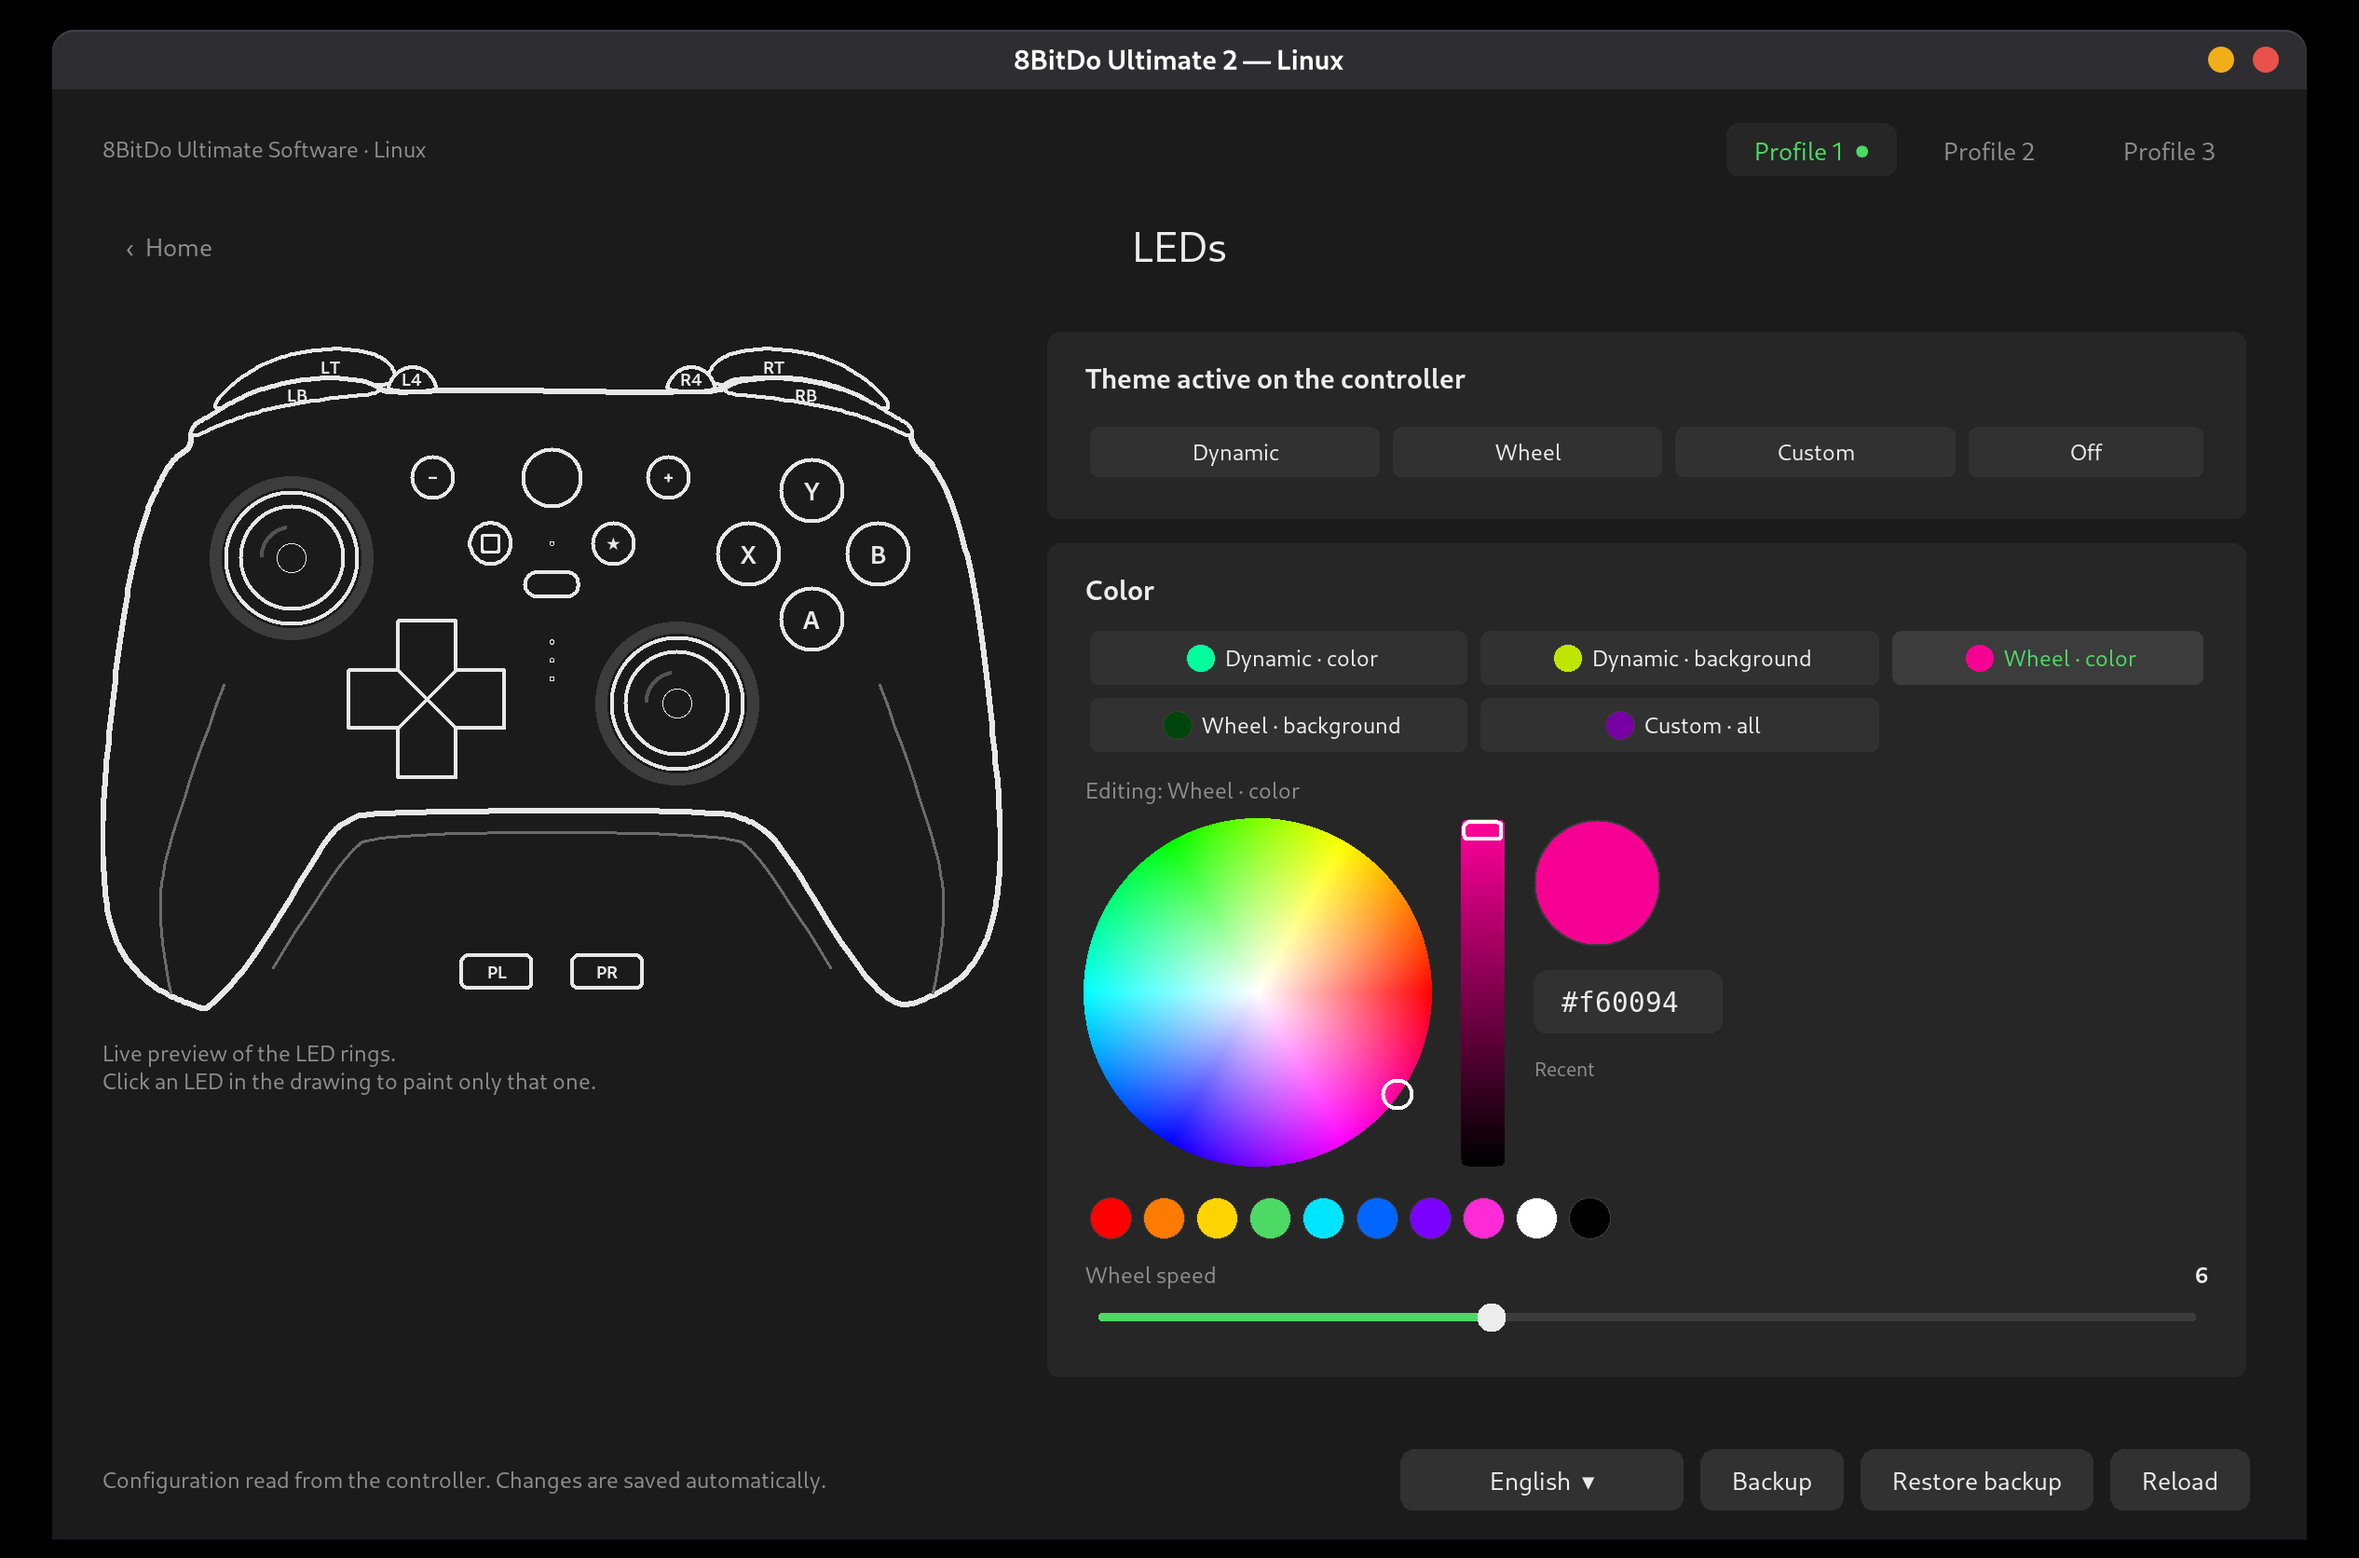
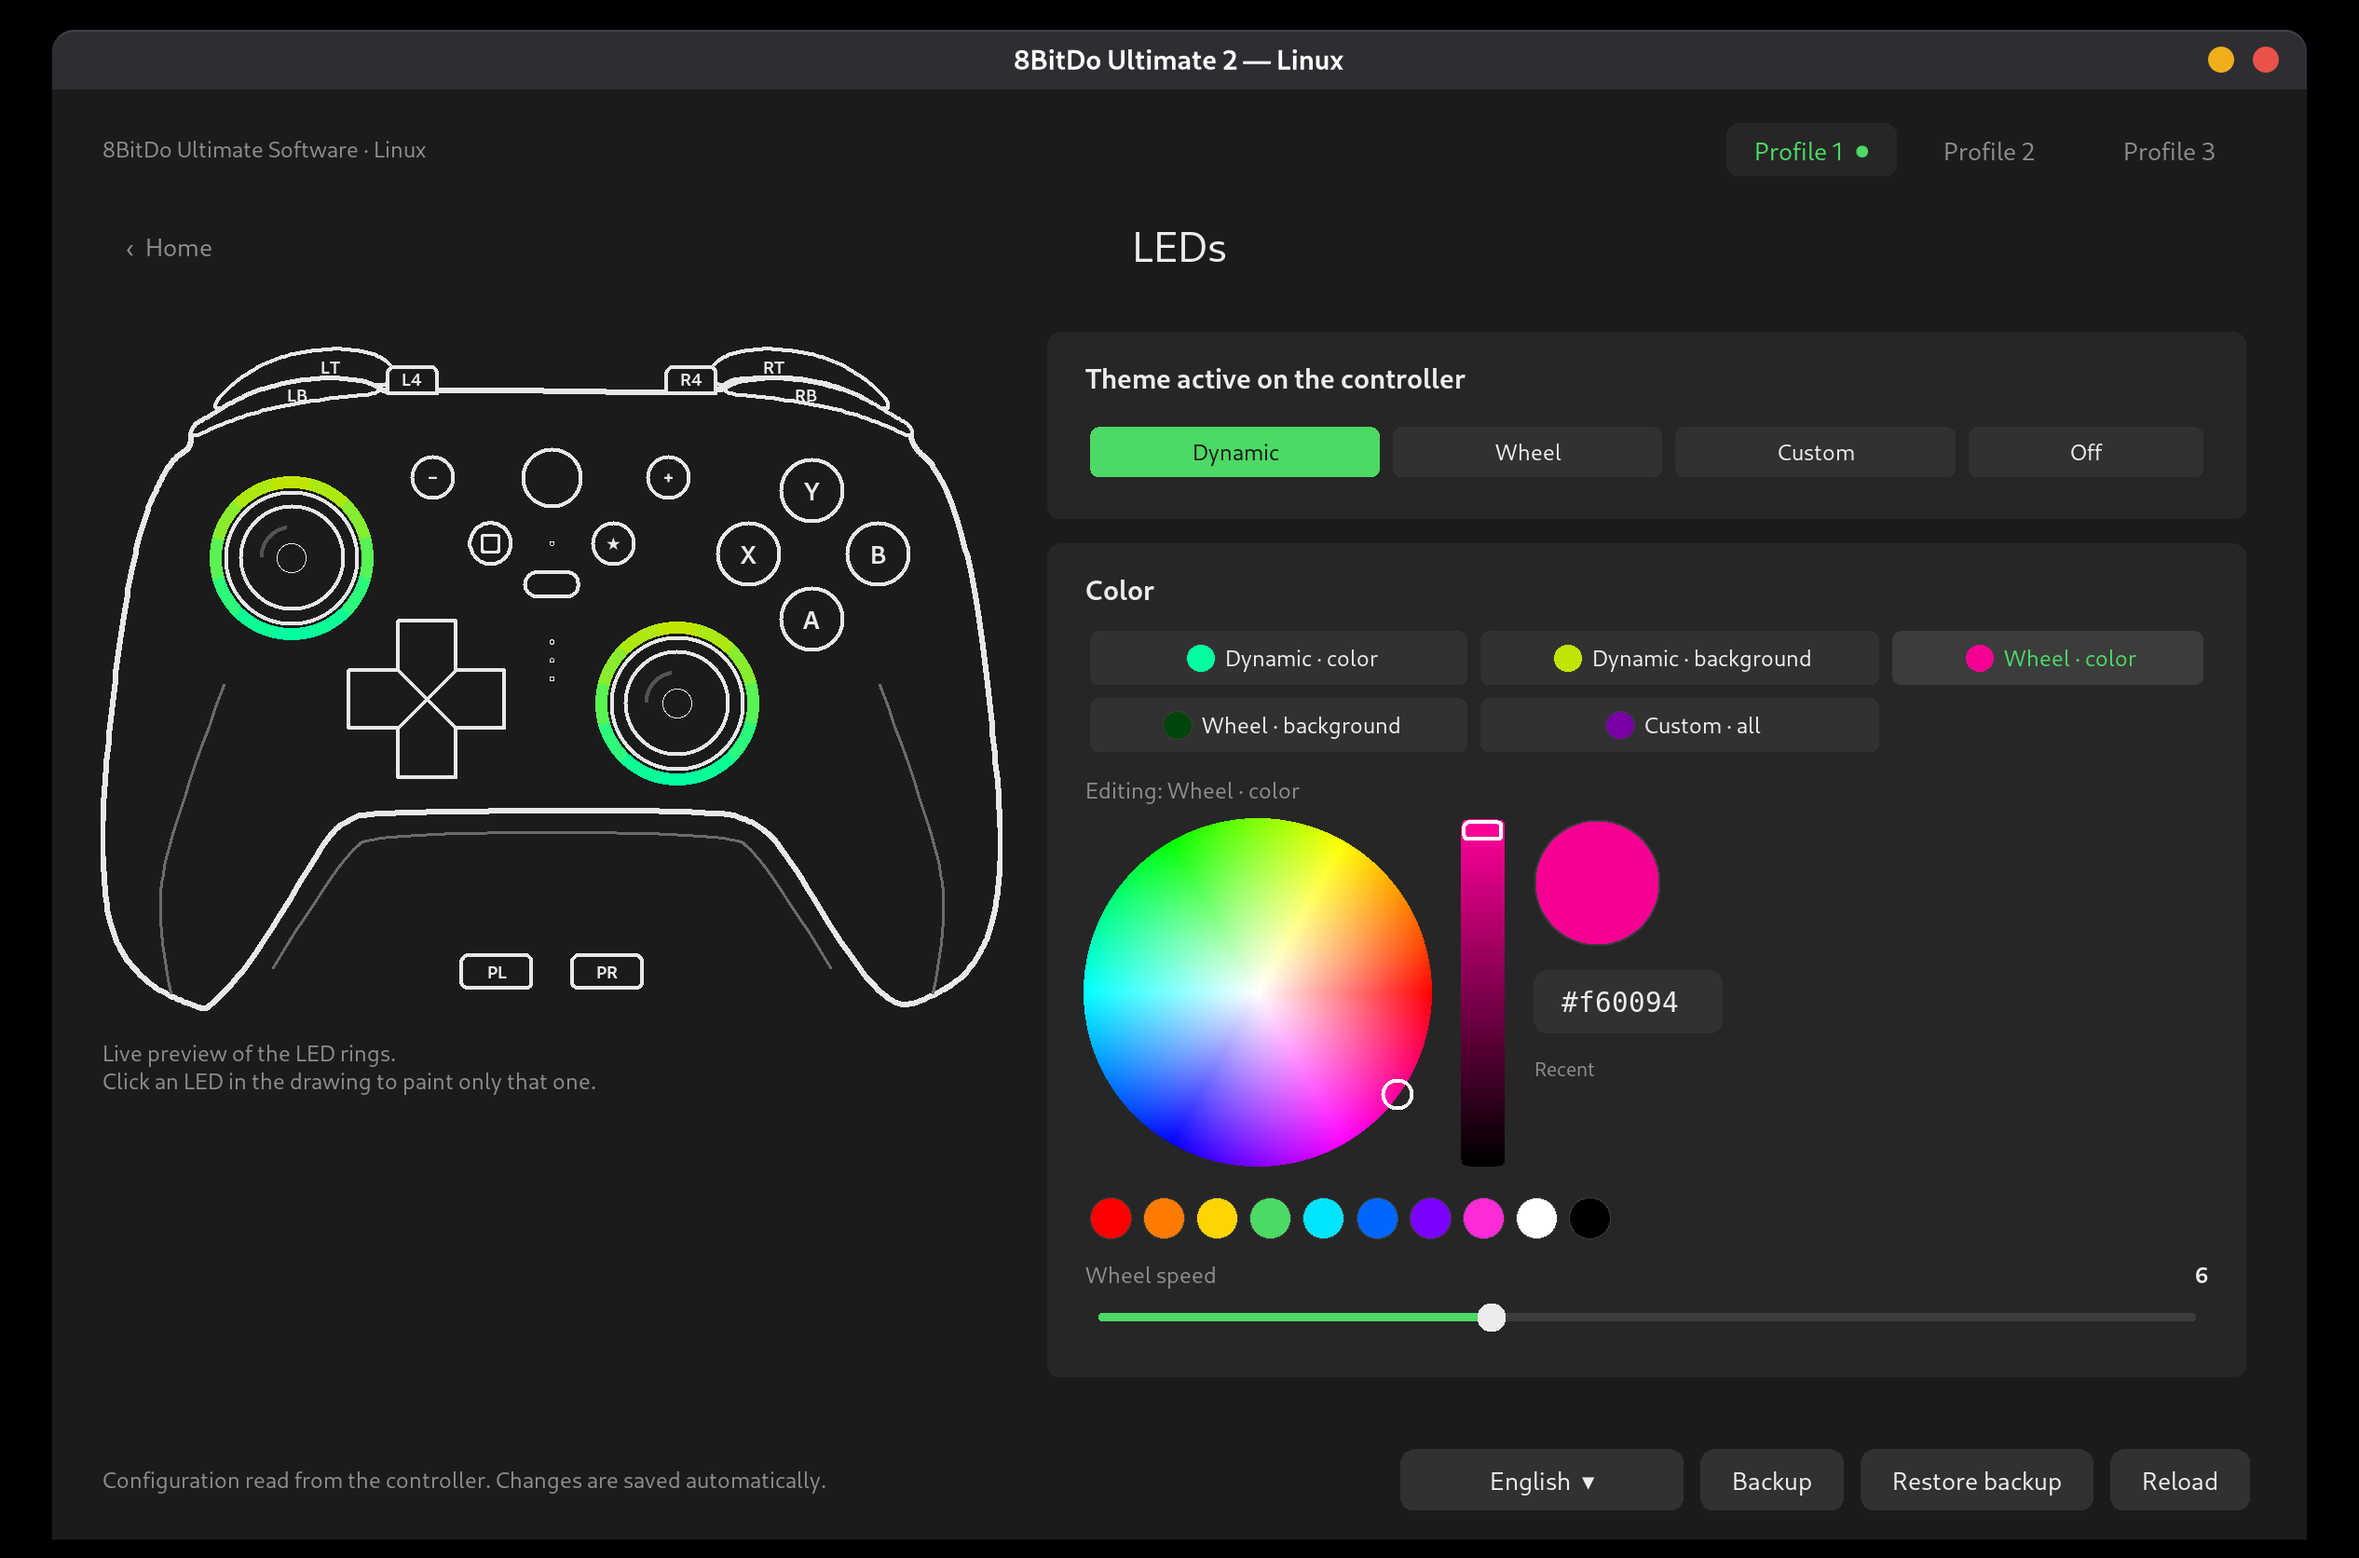
GUI: L4/R4 as half squares with rounded top corners

diff --git a/src/ultimate2/gui/geometry.py b/src/ultimate2/gui/geometry.py
@@ -3,7 +3,6 @@
 The outline and the button centres were traced from the silhouette (alpha channel only) of the official front
 render with ``tools/trace_silhouette.py``, scaled to 440 units wide and moved 18 units down so the triggers fit above.
 """
-import math
 
 BODY = [(105, 18), (132, 20), (138, 26), (171, 24), (301, 26), (305, 21), (310, 19), (340, 18), (368, 25), (395, 43),
         (396, 52), (406, 60), (417, 82), (428, 128), (439, 227), (439, 260), (435, 285), (428, 301), (418, 313),
@@ -16,9 +15,9 @@ WIDTH, HEIGHT = 440, 330
 LB_PTS = ((44, 48), (44, 43), (49, 39), (75, 24), (105, 18), (132, 20), (138, 26), (112, 28), (82, 33), (60, 40))
 LT_PTS = ((52, 36), (62, 22), (84, 8), (116, 3), (140, 8), (146, 22), (120, 22), (80, 26))
 
-# L4: half-circle sitting on the body's top edge, against the inner end of LT
-L4_PTS = tuple((round(152 + 12 * math.cos(math.pi * k / 8), 1), round(25 - 12 * math.sin(math.pi * k / 8), 1))
-               for k in range(9))
+# L4: half square with rounded top corners, sitting on the body's top edge against the inner end of LT
+# (a doubled point keeps a sharp corner in Tk's smoothed polygons)
+L4_PTS = ((140, 26), (140, 26), (140, 20), (140, 13), (147, 13), (157, 13), (164, 13), (164, 20), (164, 26), (164, 26))
 
 
 def mirror(pts):
